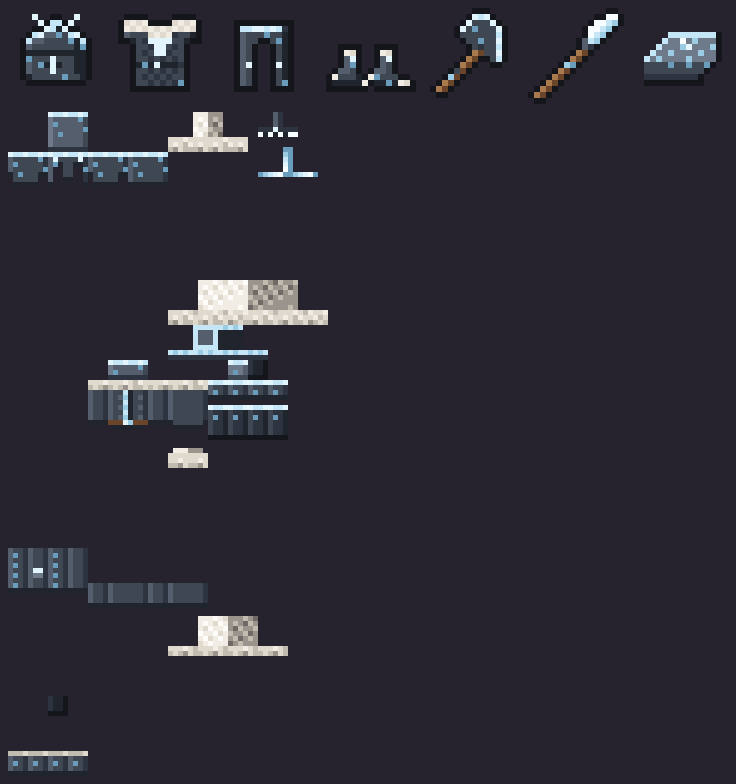
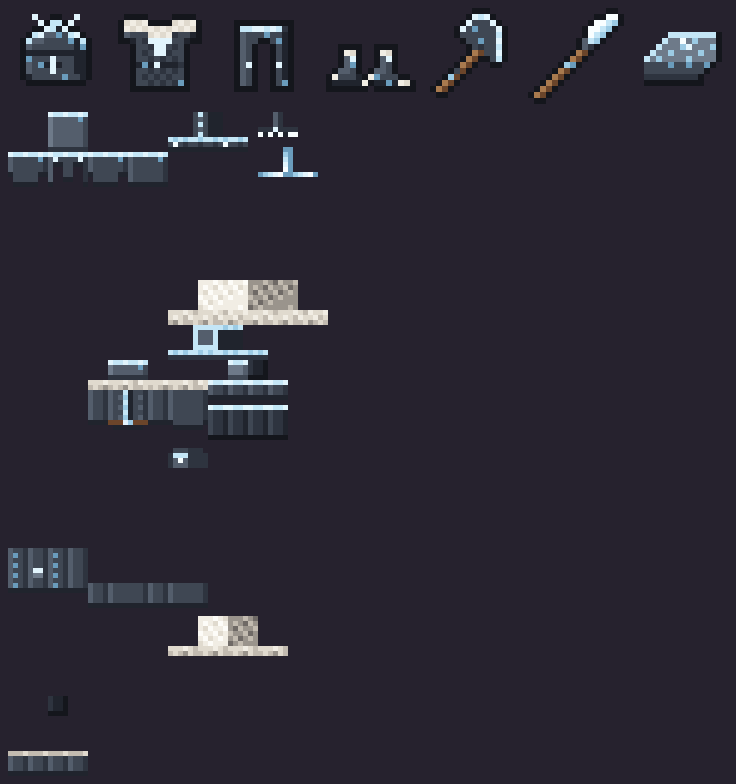
Rimeforged: fix 3D part painting (crest, knee cops), calmer frost, Texture Studio group
Claude-Session: https://claude.ai/code/session_01A4uWhYRSEH2XWBk9pdCzAk

Changed region(s): [[0.2188, 0.1224, 0.3438, 0.2143], [0.2188, 0.551, 0.2812, 0.6122]]

diff --git a/studio/art/build_rimeforged.py b/studio/art/build_rimeforged.py
@@ -46,7 +46,7 @@ def plate(px, f, keep=lambda x, y, w, h: True, tone=3, rime=True):
             c = IRON[max(0, min(5, v))]
             top = y == 0 or not keep(x, y - 1, w, h)
             if rime and top: c = RIME[3 if (x + y) % 3 else 4]
-            elif rime and (x * 5 + y * 3) % 11 == 0 and y < h // 2 + 1: c = RIME[1]
+            elif rime and (x * 5 + y * 3) % 11 == 0 and y == 1: c = RIME[1]                   # a little frost creeping down from the edge
             px[x0 + x, y0 + y] = c + (255,)
 
 
@@ -107,8 +107,10 @@ def flat():
 
 
 # ---- 3D
+KIND = {}
 def cube(o, s, uv, inf=0, mir=False):
-    c = {"origin": o, "size": s, "uv": uv}
+    c = {"origin": o, "size": s, "uv": UV.get(uv, uv) if isinstance(uv, str) else uv}
+    if isinstance(uv, str): KIND[id(c)] = uv
     if inf: c["inflate"] = inf
     if mir: c["mirror"] = True
     return c
@@ -121,7 +123,8 @@ BASE = {
                  "rightLeg": [cube([-3.9, 0, -2], [4, 12, 4], [0, 16], 0.5)], "leftLeg": [cube([-0.1, 0, -2], [4, 12, 4], [0, 16], 0.5, True)]},
     "boots": {"rightLeg": [cube([-3.9, 0, -2], [4, 12, 4], [0, 16], 1)], "leftLeg": [cube([-0.1, 0, -2], [4, 12, 4], [0, 16], 1, True)]},
 }
-SKULL, SNOUT, HORN, COLLAR, PAULDRON, KNEE, CUFF = [32, 0], [50, 0], [50, 7], [32, 0], [32, 9], [32, 0], [32, 0]
+SKULL, SNOUT, HORN, COLLAR, PAULDRON, KNEE, CUFF = 'skull', 'snout', 'horn', 'collar', 'pauldron', 'knee', 'cuff'
+UV = {SKULL: [32, 0], SNOUT: [50, 0], HORN: [50, 7], COLLAR: [32, 0], PAULDRON: [32, 9], KNEE: [32, 0], CUFF: [32, 0]}   # each piece has its own sheet
 EXTRAS = {   # odd sizes ("work in threes")
     "helmet": {"head": [cube([-1.5, 33, -3], [3, 3, 5], SKULL),                 # the dragon's skull along the crown
                         cube([-0.5, 33, -6], [1, 2, 3], SNOUT),                 # its snout over the brow
@@ -135,7 +138,7 @@ EXTRAS = {   # odd sizes ("work in threes")
 
 def extra_px(uv, f, x, y, w, h):
     side = f not in ('top', 'bottom')
-    if uv in (COLLAR, CUFF) and w > 3 or uv == CUFF:
+    if uv in (COLLAR, CUFF):
         return FUR[max(0, min(5, (4 if f == 'top' else 3) + (1 if (x + y * 2) % 3 == 0 else 0) - (1 if (x * 3 + y) % 5 == 0 else 0) - (2 if f == 'bottom' else 1 if side and y == h - 1 else 0)))]
     if uv == SKULL:
         if f in ('right', 'left') and (x, y) == ((1, 1) if f == 'right' else (w - 2, 1)): return RIME[5]       # the eye, a point of frost light
@@ -174,7 +177,7 @@ def build3d(part):
                         for x in range(fw):
                             at = (x0 + x, y0 + y)
                             assert at in painted or px[at][3] == 0, f'{piece}: 3D part would paint over the armour layer at {at}'
-                            px[at] = extra_px(c["uv"], f, x, y, fw, fh) + (255,); painted.add(at)
+                            px[at] = extra_px(KIND[id(c)], f, x, y, fw, fh) + (255,); painted.add(at)
         im.save(T + f'models/siege_armor/rimeforged_{piece}.png')
         bones = {k: list(v) for k, v in BASE[piece].items()}
         for b, cs in EXTRAS[piece].items(): bones.setdefault(b, []).extend(cs)

diff --git a/studio/build_manifest.py b/studio/build_manifest.py
@@ -152,6 +152,16 @@ def _choir_worn():
             gm[d['geometry']['default']]=d['textures']['default']+'.png'
         return [{"label":"Worn (full set, 3D)","model":"armor3d","geos":list(gm),"geoMats":gm,"mats":{"*":list(gm.values())[-1]}}]
     return [{"label":"Worn (full set)","model":"armor","mats":{"layer1":'textures/models/armor/choirsteel_layer_1.png',"layer2":'textures/models/armor/choirsteel_layer_2.png'}}]
+def _rime_worn():
+    gm={}
+    for p in ["leggings","boots","chestplate","helmet"]:
+        d=json.load(open(RP+f'attachables/rimeforged_{p}.json'))['minecraft:attachable']['description']
+        gm[d['geometry']['default']]=d['textures']['default']+'.png'
+    sk='textures/entity/siege/man_at_arms_red.png'
+    return [{"label":"Worn (full set, 3D)","model":"armor3d","skin":sk,"geos":list(gm),"geoMats":gm,"mats":{"*":list(gm.values())[-1]}},
+            {"label":"Armour only","model":"armor3d","geos":list(gm),"geoMats":gm,"mats":{"*":list(gm.values())[-1]}}]
+if os.path.exists(RP+'attachables/rimeforged_helmet.json'):
+    g("rimeforged","Rimeforged gear","Armor",_rime_worn()+[{"label":n,"model":"item","mats":{"*":I+k+'.png'}} for n,k in (("Helm","siege_rimeforged_helmet"),("Hauberk","siege_rimeforged_chestplate"),("Greaves","siege_rimeforged_leggings"),("Boots","siege_rimeforged_boots"),("Rime Axe","siege_rime_axe"),("Rime Spear","siege_rime_spear"),("Rime Steel","siege_rime_steel"))],"Frostmarch, forged at the Rime Anvil. Dark iron rimed in pale blue, a fur collar, a dragon-head crest on the helm.")
 g("ut_choirsteel","Choirsteel gear","The Hollow",[{"label":n.title(),"model":"item","mats":{"*":I+'siege_choirsteel_%s.png'%n}} for n in ("sword","pickaxe","axe","shovel","hoe","helmet","chestplate","leggings","boots")]+_choir_worn(),"Dark violet forged metal with a pale blue gem or band. All nine pieces, plus the full set as worn.")
 g("ut_veilcap_giant","Giant Veilcap","The Hollow",[cube("Cap",one('siege_veilcap_cap')),cube("Stem",one('siege_veilcap_stem'))],"The giant pink mushroom trees. The cap gives a soft glow.")
 g("ut_veilmoss_strands","Veilmoss Strands","The Hollow",[{"label":"Strands","model":"item","mats":{"*":B+'siege_veilmoss_strands.png'}}],"Hangs down cliff edges, one to three blocks long. Cross-shaped in game, shown flat here.")
